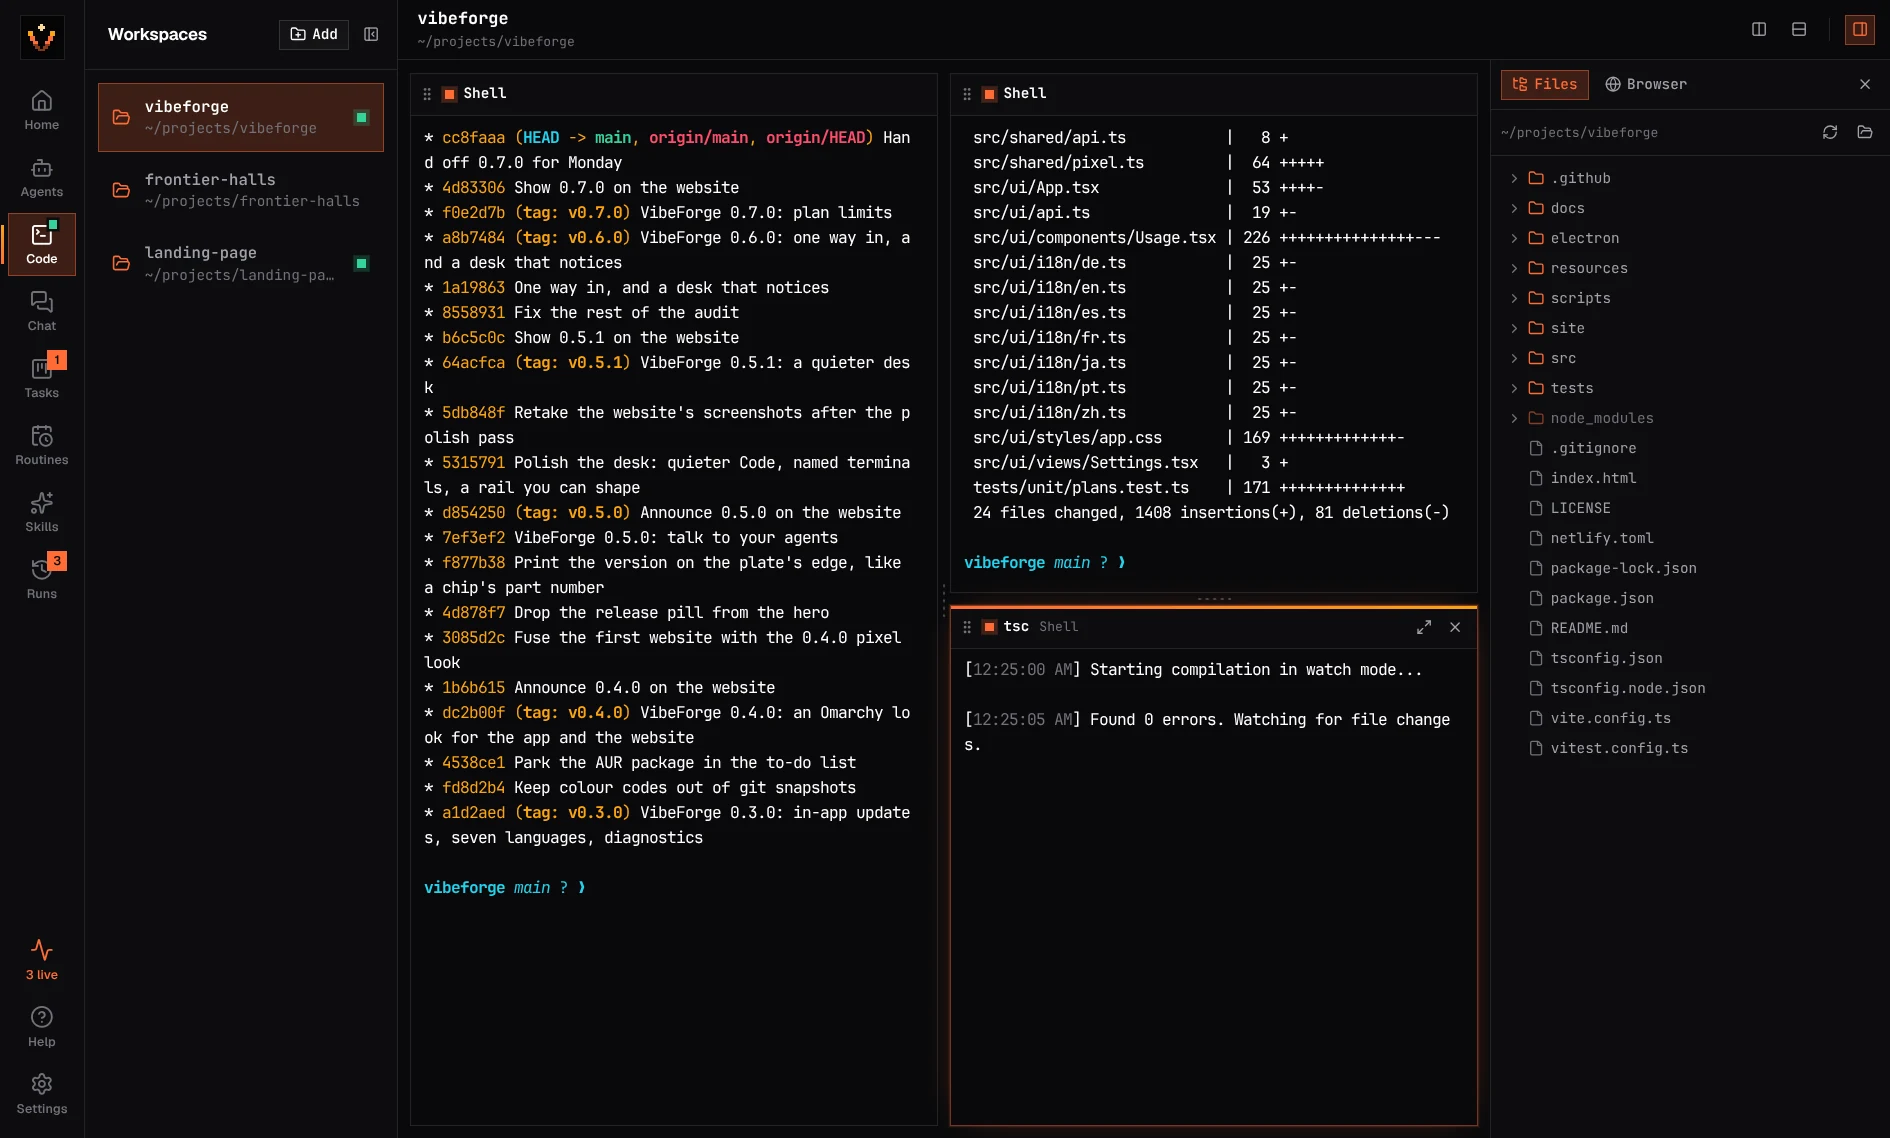
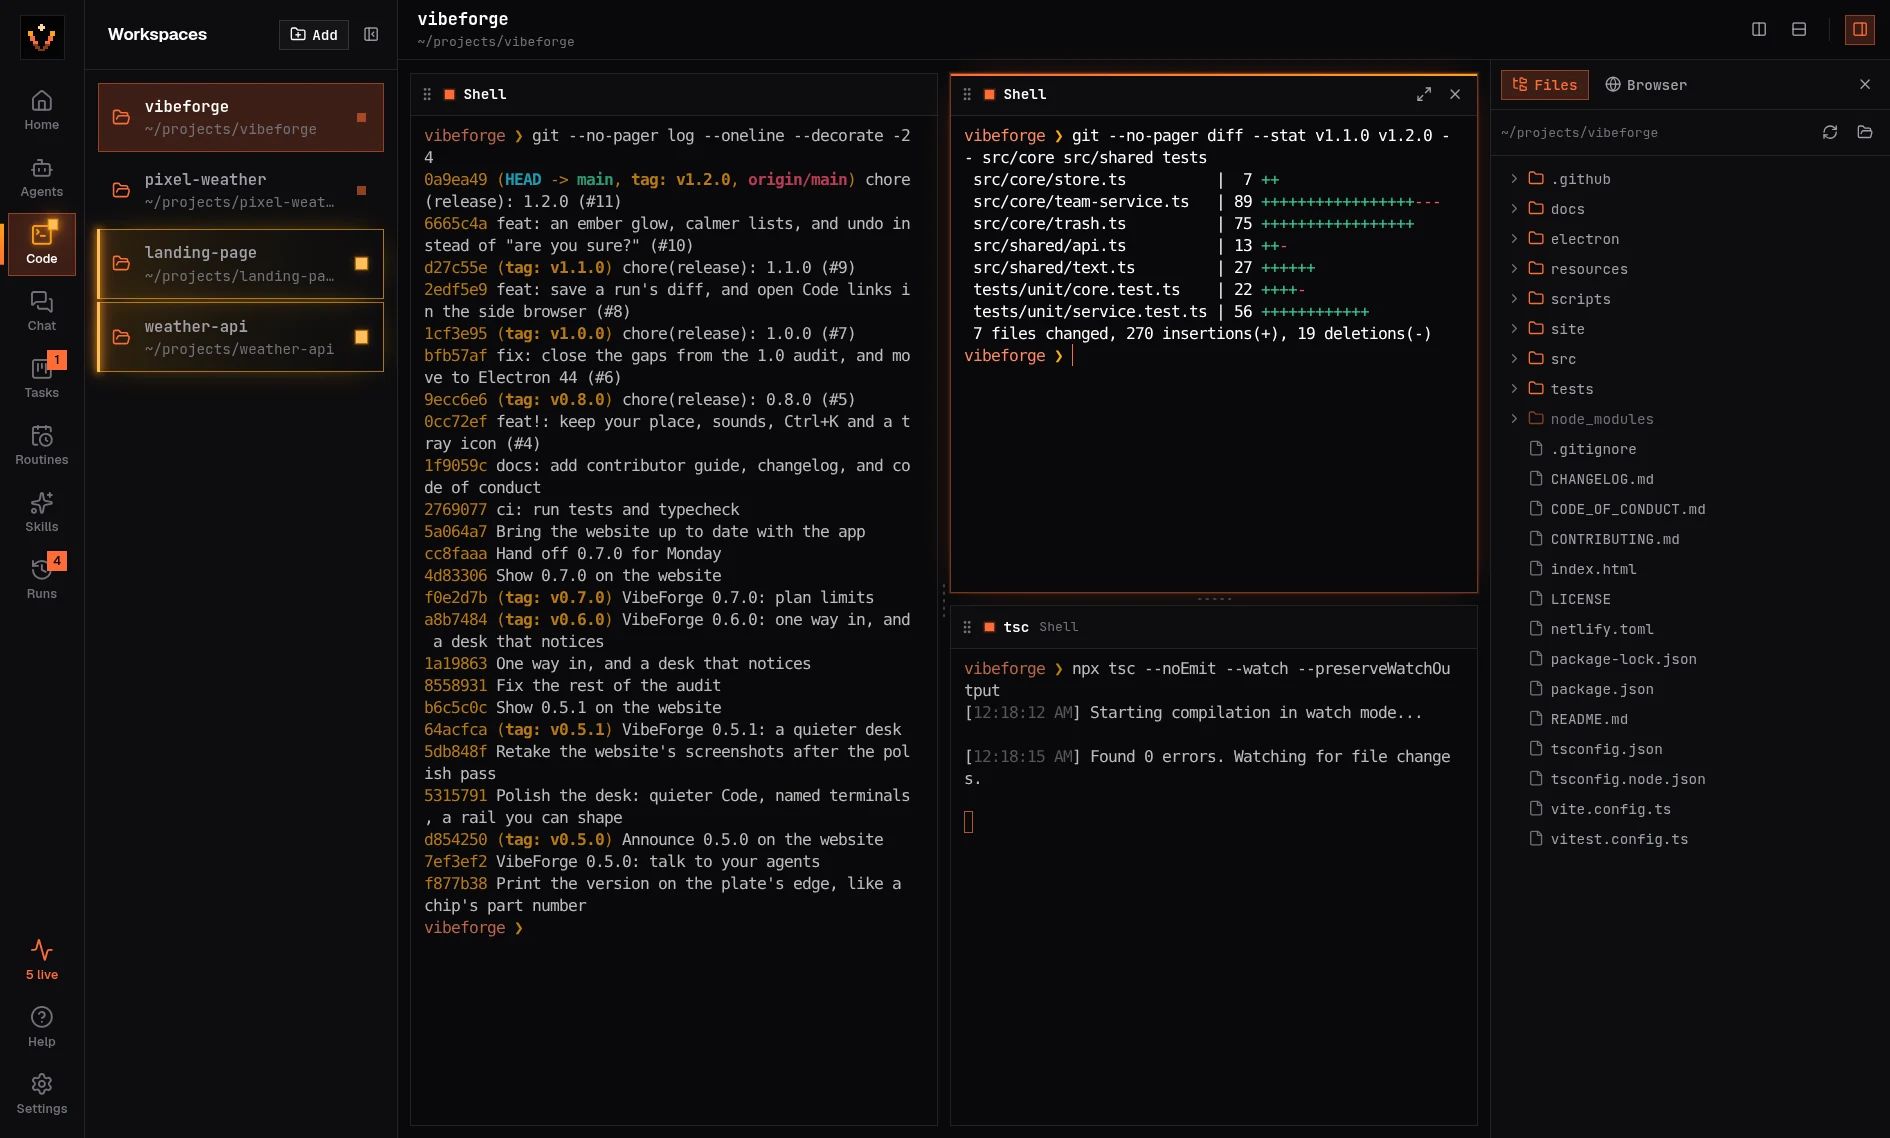
docs(site): retake the tour screenshots on 1.2.0
Home, Code and Tasks, taken from the real 1.2.0 UI with a demo profile
in the Apex Forge theme: glowing workspaces, runs led by their projects,
dimmed split panes, and a task in every column. Alt text and captions
follow what the new shots show; the image and script cache-busters move
to 1.2.0.

diff --git a/site/index.html b/site/index.html
@@ -495,7 +495,7 @@
         <div class="section-head reveal">
           <span class="kicker"><b>03</b> Tour</span>
           <h2>Not a mockup. The real desk.</h2>
-          <p>Screenshots of VibeForge 0.7.0 on a working day, in the Apex Forge theme.</p>
+          <p>Screenshots of VibeForge 1.2.0 on a working day, in the Apex Forge theme.</p>
         </div>
         <div class="tour reveal" data-tour>
           <div class="tour-tabs" role="tablist" aria-label="Screenshots">
@@ -505,13 +505,13 @@
           </div>
           <div class="tour-frame">
             <figure class="shot is-on">
-              <img src="assets/app-home.webp?v=0.7.0" width="1890" height="1138" alt="VibeForge's Home: the pixel wordmark beside a year of commits, three terminals running, three runs to review, a 14-day run chart, workspaces, the routines coming up next and the CLIs on this machine." />
+              <img src="assets/app-home.webp?v=1.2.0" width="1890" height="1138" alt="VibeForge's Home: the pixel wordmark beside a year of commits, five terminals running, four runs to review led by their projects, a 14-day run chart, workspaces with two glowing because their CLIs are waiting, the terminals live now and the routines coming up next." />
             </figure>
             <figure class="shot">
-              <img src="assets/app-code.webp?v=0.7.0" width="1890" height="1138" alt="Code mode: three tiled terminals in a project with git log, a diffstat and a TypeScript watch that its title bar names, split from the toolbar, with the file tree on the right." loading="lazy" />
+              <img src="assets/app-code.webp?v=1.2.0" width="1890" height="1138" alt="Code mode on the VibeForge repository: three tiled terminals with git log and its release tags, a diffstat from 1.1.0 to 1.2.0 in the focused pane and a TypeScript watch its title bar names, the unfocused panes dimmed, two other workspaces glowing in the list, and the file tree on the right." loading="lazy" />
             </figure>
             <figure class="shot">
-              <img src="assets/app-tasks.webp?v=0.7.0" width="1890" height="1138" alt="The task board with cards in To do, Review and Done, each assigned to an agent and a workspace." loading="lazy" />
+              <img src="assets/app-tasks.webp?v=1.2.0" width="1890" height="1138" alt="The task board with cards in To do, Running, Review and Done, each assigned to an agent and a workspace, the finished ones with their diff." loading="lazy" />
             </figure>
           </div>
           <p class="tour-caption" data-tour-caption><b>Home</b> What's live, what finished and needs a look, and what runs next.</p>
@@ -714,6 +714,6 @@ npm run build && ./scripts/vibeforge</pre>
       </p>
     </footer>
 
-    <script src="main.js?v=0.8.0" defer></script>
+    <script src="main.js?v=1.2.0" defer></script>
   </body>
 </html>

diff --git a/site/main.js b/site/main.js
@@ -737,7 +737,7 @@ function setupPausing() {
 
 const CAPTIONS = [
   ["Home", "What's live, what finished and needs a look, and what runs next."],
-  ["Code", "Shells and CLIs tiled side by side, a file tree, and a browser dock for your dev server."],
+  ["Code", "Shells and CLIs tiled side by side, the ones you aren't in stepping back, a file tree, and a browser for any link."],
   ["Tasks", "Writing a task starts nothing. Execute does, and the result lands in Review with its diff."],
 ];
 
